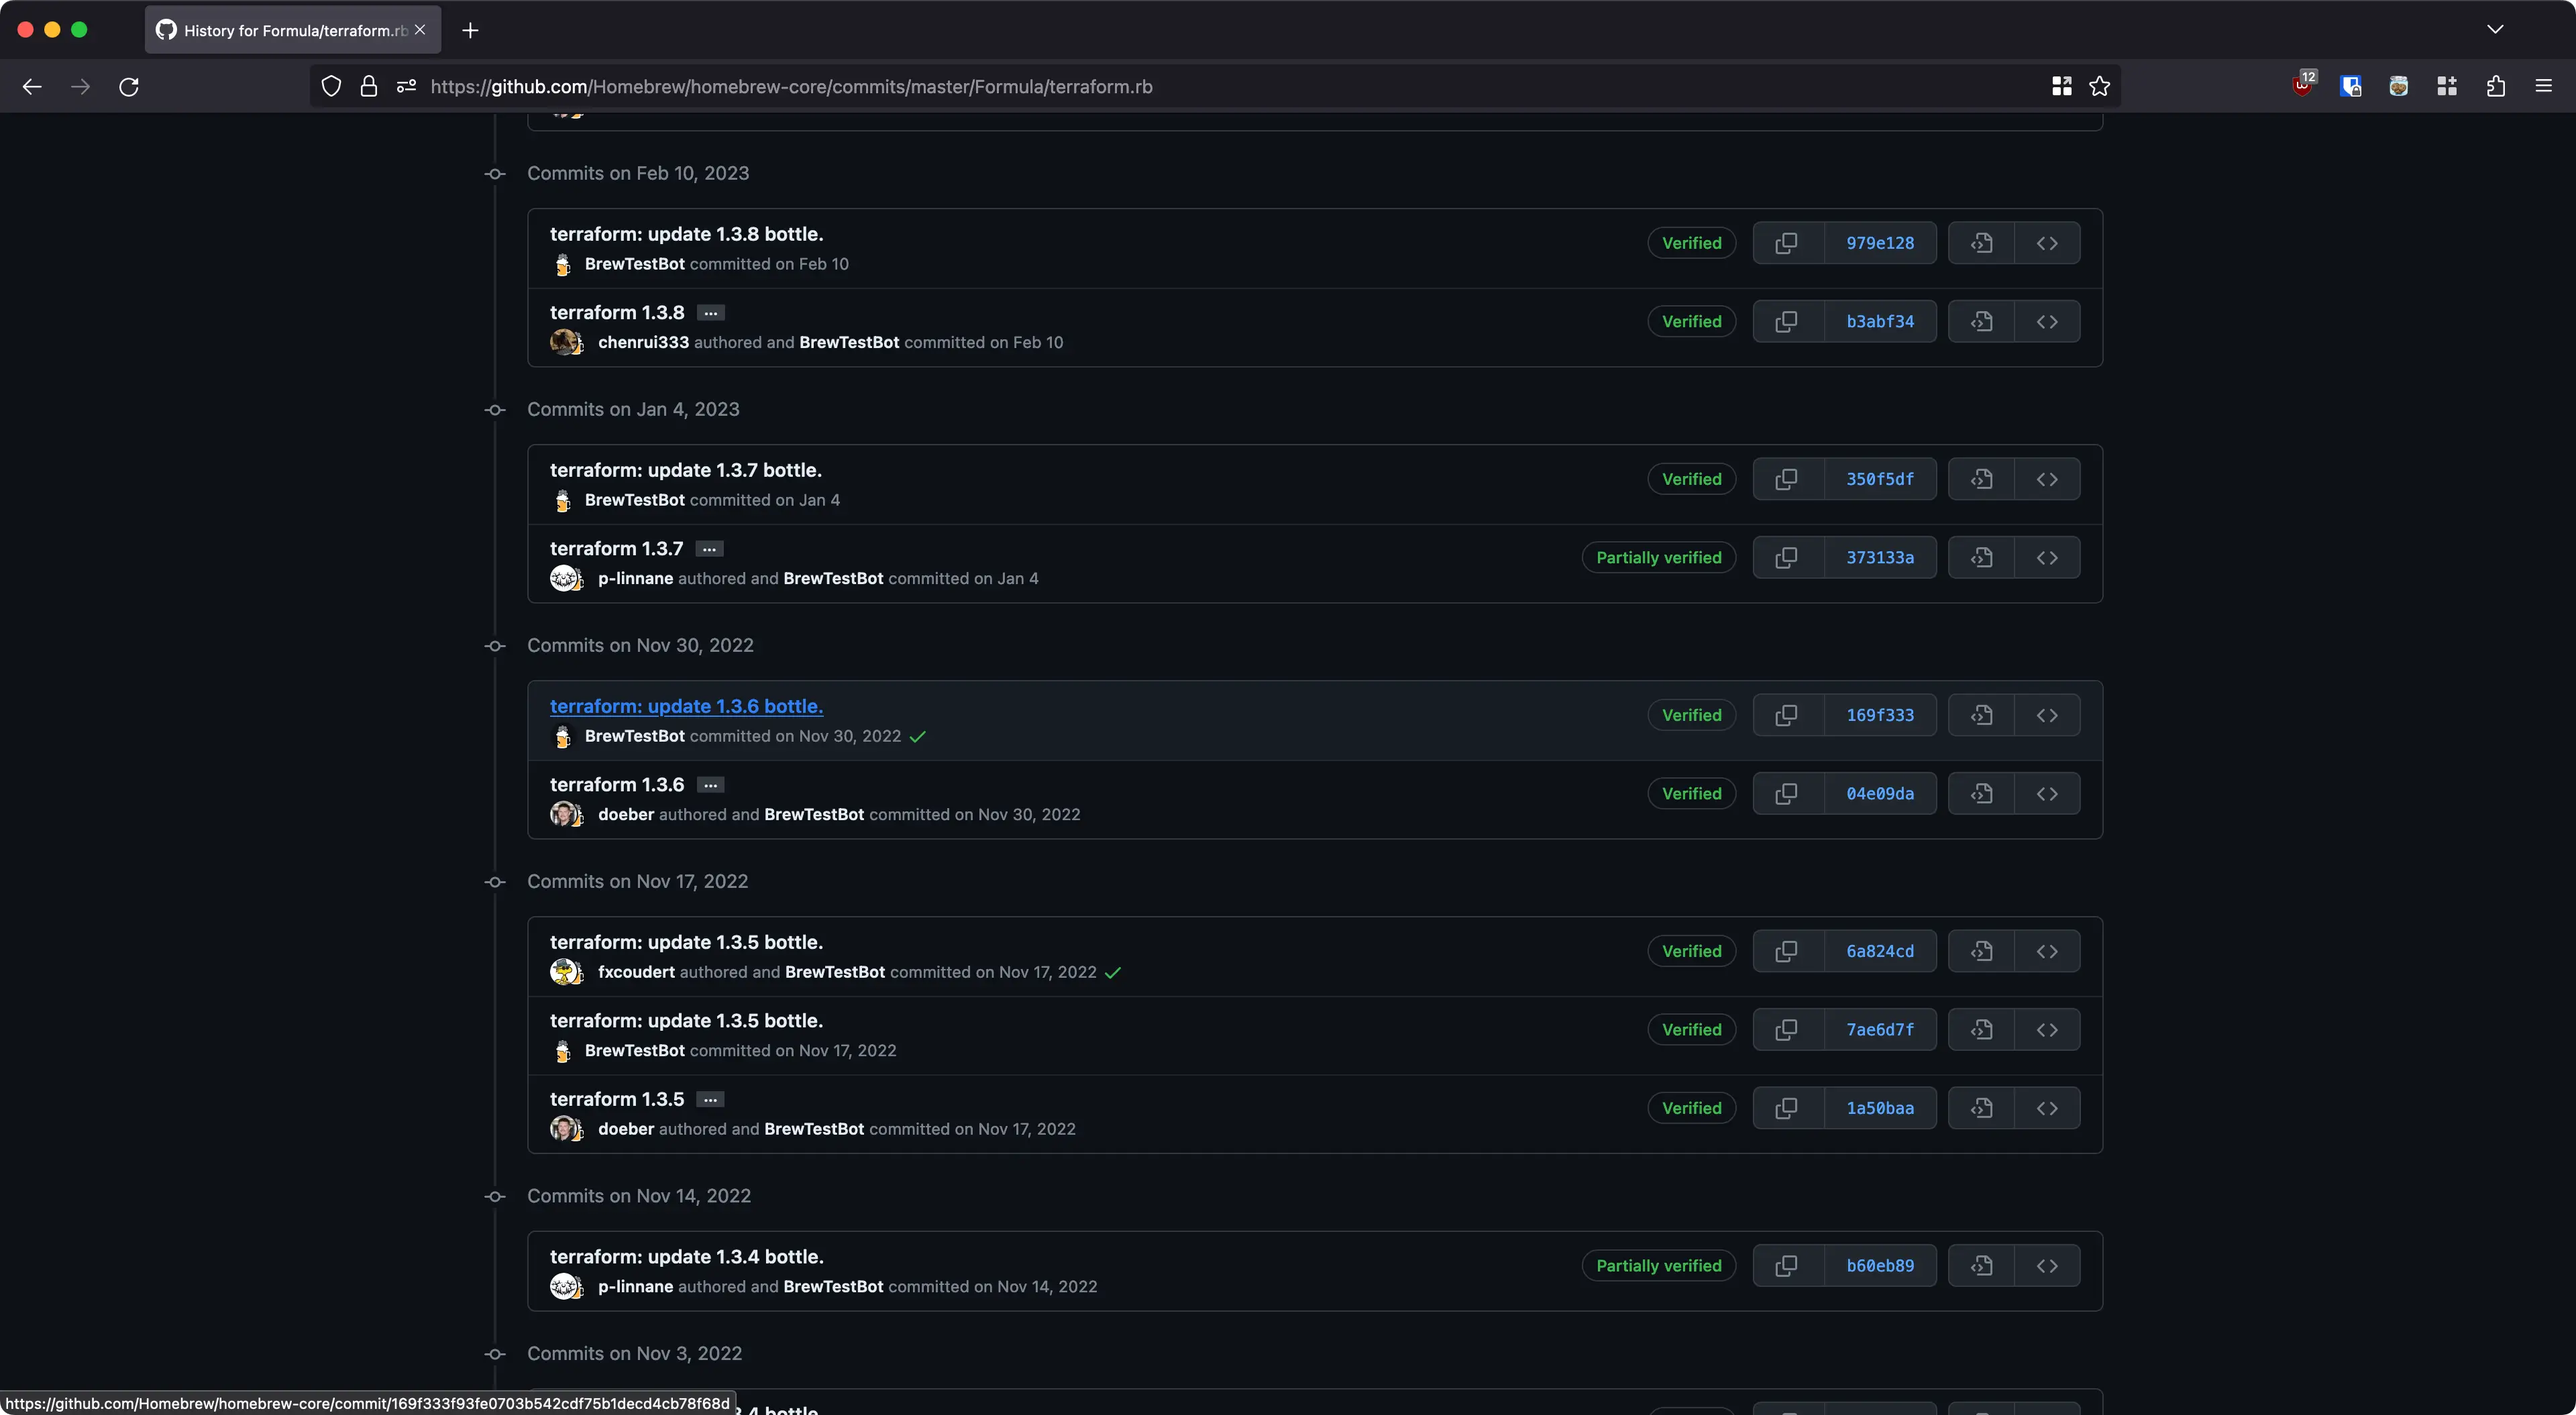
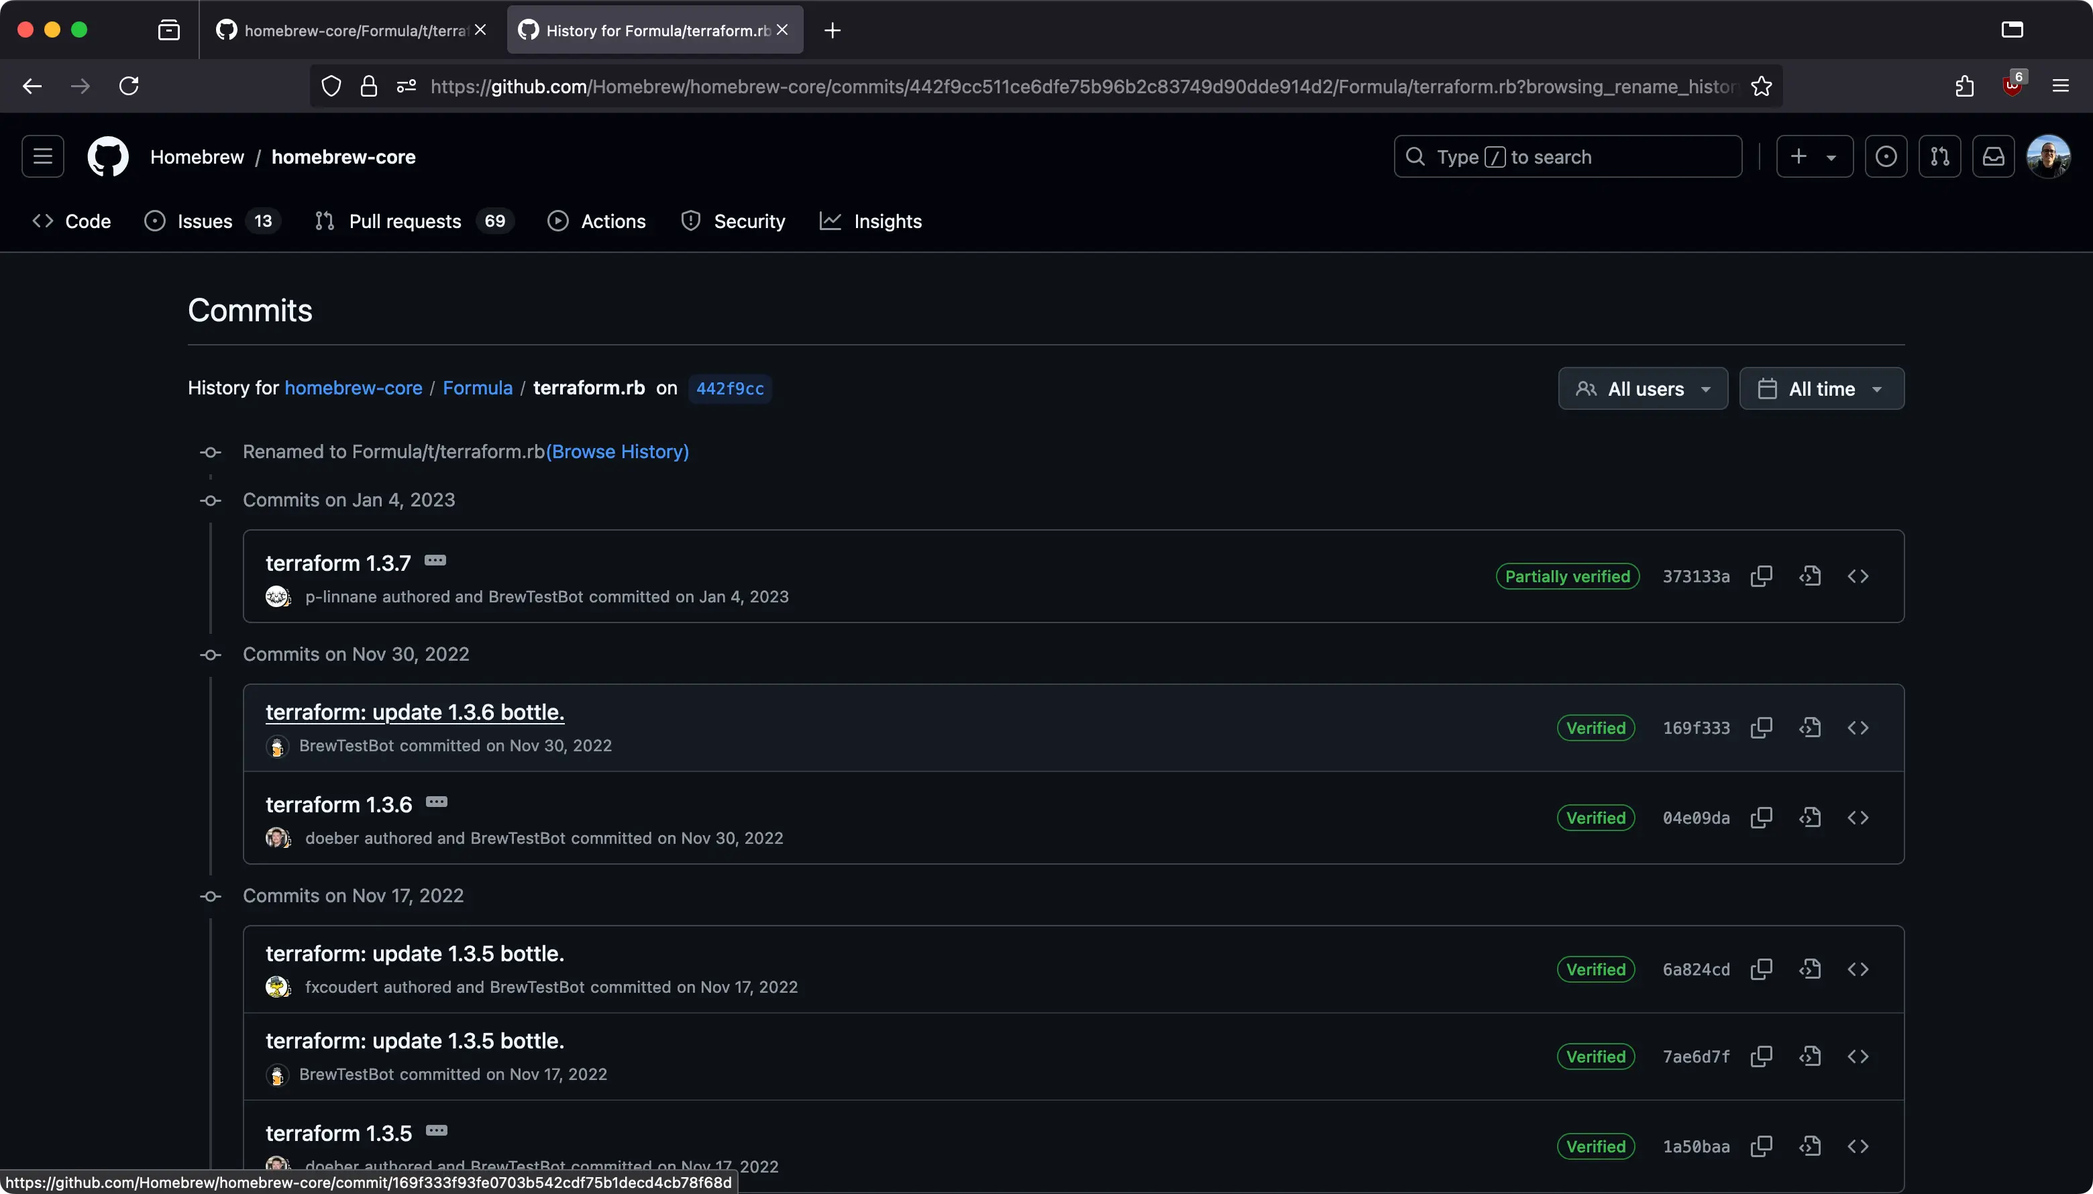
updated images to be more accurate
Former-commit-id: 3d3024e4c6d1ccc6e2be1dbfe5d3c67fb98ee454
Former-commit-id: 25329843e8d3af588238354cbc8a2feda6e57bbd

diff --git a/content/posts/2023-04-15-how-to-install-older-versions-of-homebrew-packages.md b/content/posts/2023-04-15-how-to-install-older-versions-of-homebrew-packages.md
@@ -2,13 +2,11 @@
 title = "How To Install Older Versions of Homebrew Packages"
 summary = "How to install a specific version of Homebrew packages."
 date = "2023-04-18"
-lastmod = "2024-04-12"
+lastmod = "2024-10-04"
 categories = ["Homebrew", "macOS"]
 +++
 
 It's possible to install older versions of Homebrew packages by saving an older version of the corresponding Ruby file locally and running `brew install <package>.rb`. I'll use the `terraform` package as an example.
-
-<br>
 
 > TL;DR: If I wanted to downgrade to Terraform 1.3.6, I would need to:
 > - Find the Ruby file for that specific version of [Terraform on the Homebrew GitHub repo](https://github.com/Homebrew/homebrew-core/blob/169f333f93fe0703b542cdf75b1decd4cb78f68d/Formula/terraform.rb)
@@ -16,13 +14,11 @@ It's possible to install older versions of Homebrew packages by saving an older 
 > - Uninstall the current version of terraform by running `brew remove terraform`
 > - Install the older version defined in the Ruby file by running `brew install terraform.rb`
 
-<br>
-
-Let's say we have `terraform` version 1.4.5 but we need `terraform` version 1.3.6. We can start by browsing to https://github.com/Homebrew/homebrew-core/tree/master/Formula and try to find the formula for `terraform`.
+Let's say we have `terraform` version 1.4.5 but we need `terraform` version 1.3.6. We can start by browsing to https://github.com/Homebrew/homebrew-core/tree/master/Formula and try to find the formula for `terraform` under the `t` directory.
 
 {{< figure src="/how-to-install-older-versions-of-homebrew-packages/formulas.webp" alt="List of Homebrew formulas" >}}
 
-Since there are a lot of files here, it's easier to just modify the URL. Take the name of the package and append it at the end of the url, adding `/<first-letter-of-package-name>/<package-name>.rb` to the URL. The `.rb` is important because all Homebrew packages are defined in Ruby (files with the `.rb` extension).
+Since there are a lot of files here, it's easier to just modify the URL path in the browser. Modify the path based on the directory the command is in: Take the name of the package and append it at the end of the url, adding `/<directory-containing-package>/<package-name>.rb` to the URL. The `.rb` is important because all Homebrew packages are defined in Ruby (files with the `.rb` extension).
 
 In this case, we'll append `/t/terraform.rb` to the URL like so: https://github.com/Homebrew/homebrew-core/blob/master/Formula/t/terraform.rb
 
@@ -30,7 +26,7 @@ That URL will then take us to the Ruby file where the `terraform` Homebrew packa
 
 {{< figure src="/how-to-install-older-versions-of-homebrew-packages/terraform.webp" alt="Terraform Homebrew formula" >}}
 
-Next, click the "History" link on the upper right above the code. In the next page, scroll down until you see the "terraform: update 1.3.6 bottle" link.
+Next, click the "History" link on the upper right above the code, or just click on this link https://github.com/Homebrew/homebrew-core/commits/master/Formula/t/terraform.rb. In the next page, scroll down until you see the "terraform: update 1.3.6 bottle" link. Note that you may need to click on "Browse History" at the bottom of this page before continuing your search.
 
 {{< figure src="/how-to-install-older-versions-of-homebrew-packages/1.3.6.webp" alt="Commit history for the terraform formula" >}}
 
